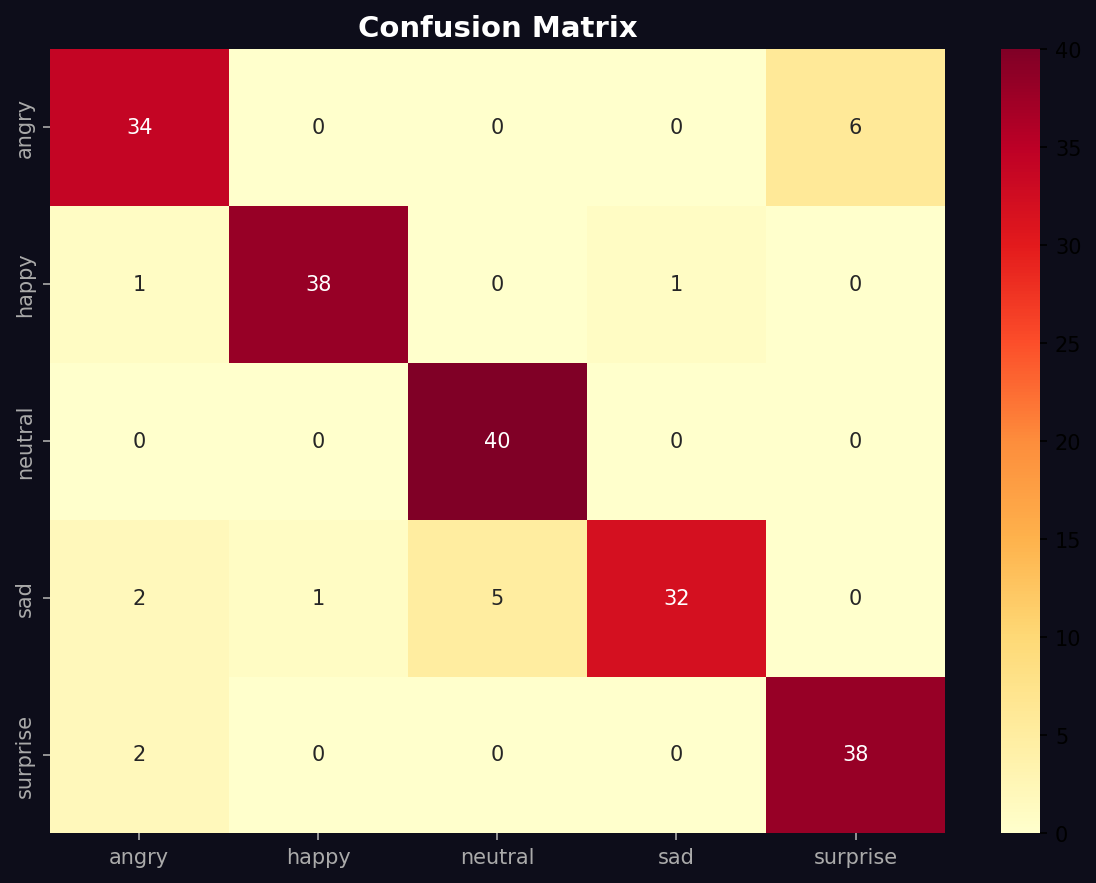
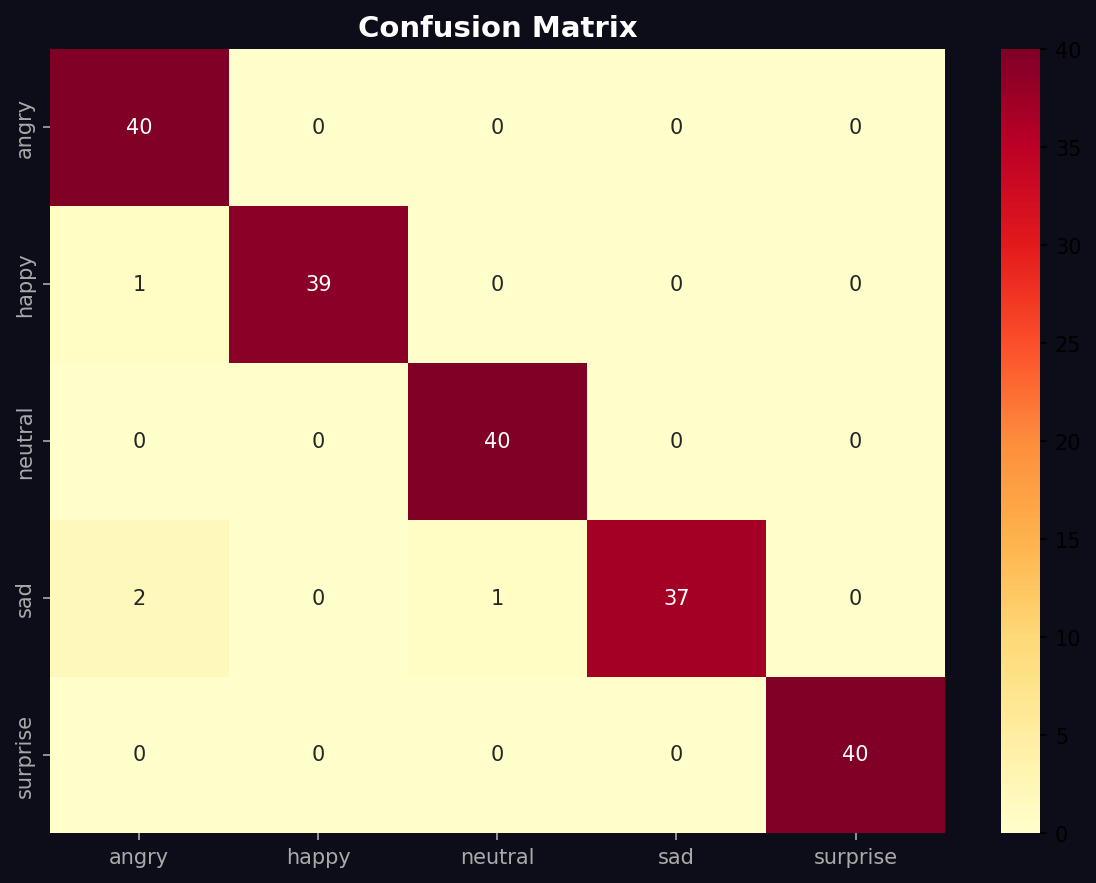
some altered code is here

diff --git a/app.py b/app.py
@@ -58,12 +58,15 @@ os.makedirs(MODEL_DIR,  exist_ok=True)
 # ════════════════════════════════════════════════════════════════════════════
 _fb_app = _fb_db = _fb_auth_mod = None
 _USE_FIREBASE = False
+_FB_INIT_ERROR = ''
 
 def init_firebase():
-    global _fb_app, _fb_db, _fb_auth_mod, _USE_FIREBASE
+    global _fb_app, _fb_db, _fb_auth_mod, _USE_FIREBASE, _FB_INIT_ERROR
     creds_path = os.path.join(BASE_DIR, 'firebase_credentials.json')
+    _FB_INIT_ERROR = ''
     if not os.path.exists(creds_path):
-        print('⚠  firebase_credentials.json not found → LOCAL mode (users.json)')
+        _FB_INIT_ERROR = f'Credentials file not found at: {creds_path}'
+        print(f'[WARN] {_FB_INIT_ERROR} -> LOCAL mode (users.json)')
         return False
     try:
         import firebase_admin
@@ -76,13 +79,16 @@ def init_firebase():
         _fb_db         = firestore.client()
         _fb_auth_mod   = fb_auth
         _USE_FIREBASE  = True
-        print('✅  Firebase Firestore connected.')
+        _FB_INIT_ERROR = ''
+        print('[OK] Firebase Firestore connected.')
         return True
     except Exception as e:
-        print(f'⚠  Firebase init failed: {e} → LOCAL mode')
+        _FB_INIT_ERROR = str(e)
+        print(f'[WARN] Firebase init failed on {sys.executable}: {_FB_INIT_ERROR} -> LOCAL mode')
         return False
 
 init_firebase()
+print(f"[AUTH] Storage mode: {'FIREBASE' if _USE_FIREBASE else 'LOCAL users.json'} | Python: {sys.executable}")
 
 # ── Local user store fallback ─────────────────────────────────────────────────
 _LOCAL_USERS = os.path.join(BASE_DIR, 'users.json')
@@ -109,6 +115,8 @@ except ImportError:
 # ── CSRF ──────────────────────────────────────────────────────────────────────
 def gen_csrf():
     t = secrets.token_hex(32); session['csrf_token'] = t; return t
+def ensure_csrf():
+    return session.get('csrf_token') or gen_csrf()
 def ok_csrf(t):
     s = session.get('csrf_token')
     return bool(s and t and hmac.compare_digest(s, t))
@@ -148,7 +156,7 @@ APP_URL       = os.environ.get('APP_BASE_URL', 'http://127.0.0.1:5000')
 def send_email(to, subject, html):
     if not SMTP_PASS:
         print(f'[EMAIL] To:{to} | Subject:{subject}')
-        print(f'[EMAIL] (No SMTP configured – showing in console)')
+        print(f'[EMAIL] (No SMTP configured - showing in console)')
         return True
     try:
         msg = MIMEMultipart('alternative')
@@ -191,6 +199,8 @@ def create_user(email, password, fullname, dob):
             return True
         except Exception as e: print(f'Firebase create_user: {e}'); return False
     else:
+        if os.path.exists(os.path.join(BASE_DIR, 'firebase_credentials.json')):
+            print(f'[WARN] Firebase credentials were found, but Firebase mode is OFF. Writing user locally. Reason: {_FB_INIT_ERROR or "unknown"}')
         u = _lu()
         u[email] = {'fullname':fullname,'dob':dob,'pw_hash':h,
                     'role':'user','created':datetime.now().isoformat()}
@@ -452,10 +462,10 @@ def security_headers(resp):
 @app.route('/login', methods=['GET','POST'])
 def login_page():
     if 'user_email' in session: return redirect(url_for('index'))
-    csrf = gen_csrf()
     if request.method == 'POST':
         if not ok_csrf(request.form.get('csrf_token','')):
             flash('Invalid request. Please try again.','error'); return redirect(url_for('login_page'))
+        csrf = gen_csrf()
         ip = request.remote_addr
         if not rate_ok(ip,10,60):
             flash('Too many attempts. Wait 1 minute.','error')
@@ -475,13 +485,13 @@ def login_page():
         session['user_role']     = user.get('role','user')
         session.pop('csrf_token',None)
         return redirect(url_for('index'))
-    return render_template('login.html', csrf_token=csrf)
+    return render_template('login.html', csrf_token=ensure_csrf())
 
 @app.route('/register', methods=['POST'])
 def register():
-    csrf = gen_csrf()
     if not ok_csrf(request.form.get('csrf_token','')):
         flash('Invalid request.','error'); return redirect(url_for('login_page'))
+    csrf = gen_csrf()
     ip = request.remote_addr
     w  = reg_wait(ip)
     if w:
@@ -512,14 +522,16 @@ def register():
         flash('Registration failed. Try again.','error')
         return render_template('login.html', csrf_token=csrf)
     set_reg_cd(ip)
+    if not _USE_FIREBASE and os.path.exists(os.path.join(BASE_DIR, 'firebase_credentials.json')):
+        flash('Account created in LOCAL mode (users.json). Firebase is not active in this runtime. Check Python environment and firebase-admin package.', 'warning')
     flash('Account created! Please log in.','success')
     return redirect(url_for('login_page'))
 
 @app.route('/forgot-password', methods=['POST'])
 def forgot_password():
-    csrf = gen_csrf()
     if not ok_csrf(request.form.get('csrf_token','')):
         flash('Invalid request.','error'); return redirect(url_for('login_page'))
+    csrf = gen_csrf()
     if not rate_ok(request.remote_addr,3,300):
         flash('Too many reset requests. Wait 5 minutes.','error')
         return render_template('login.html', csrf_token=csrf)
@@ -534,14 +546,14 @@ def forgot_password():
 
 @app.route('/reset-password/<token>', methods=['GET','POST'])
 def reset_password(token):
-    csrf = gen_csrf()
     if request.method=='GET':
         r = _rst.get(token)
         if not r or r['used'] or time.time()>r['exp']:
             flash('Reset link invalid or expired.','error'); return redirect(url_for('login_page'))
-        return render_template('reset_password.html', token=token, csrf_token=csrf)
+        return render_template('reset_password.html', token=token, csrf_token=gen_csrf())
     if not ok_csrf(request.form.get('csrf_token','')):
         flash('Invalid request.','error'); return redirect(url_for('login_page'))
+    csrf = gen_csrf()
     pw  = request.form.get('password','')
     cpw = request.form.get('confirm_password','')
     if not vld_pw(pw):
@@ -619,8 +631,9 @@ def e404(e): return render_template('login.html',csrf_token=gen_csrf()),404
 def e403(e): return jsonify({'error':'Forbidden'}),403
 
 if __name__ == '__main__':
-    print('🎙  VoxEmotion  v4  |  Auth + Security')
+    print('VoxEmotion v4 | Auth + Security')
     print(f'   Firebase  : {"ON" if _USE_FIREBASE else "LOCAL (users.json)"}')
     print(f'   Dataset   : {DATASET_ROOT}')
     _load_t2()
     app.run(host='0.0.0.0', port=5000, debug=False, use_reloader=False)
+    